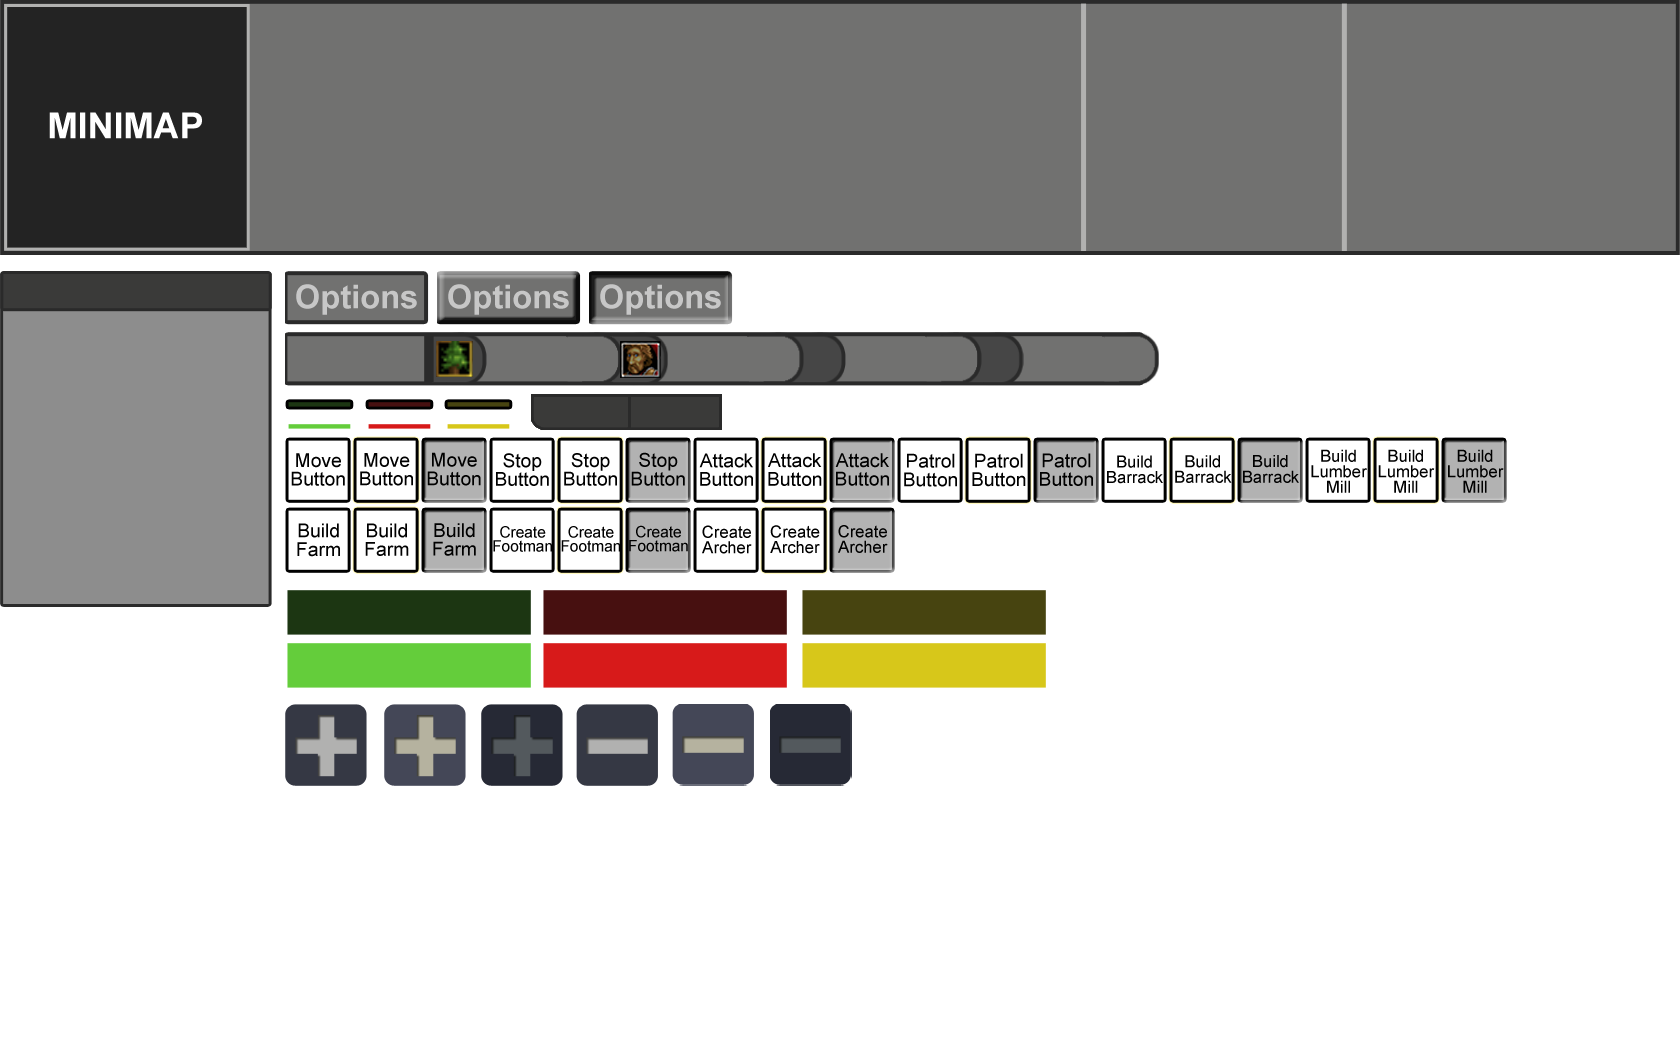
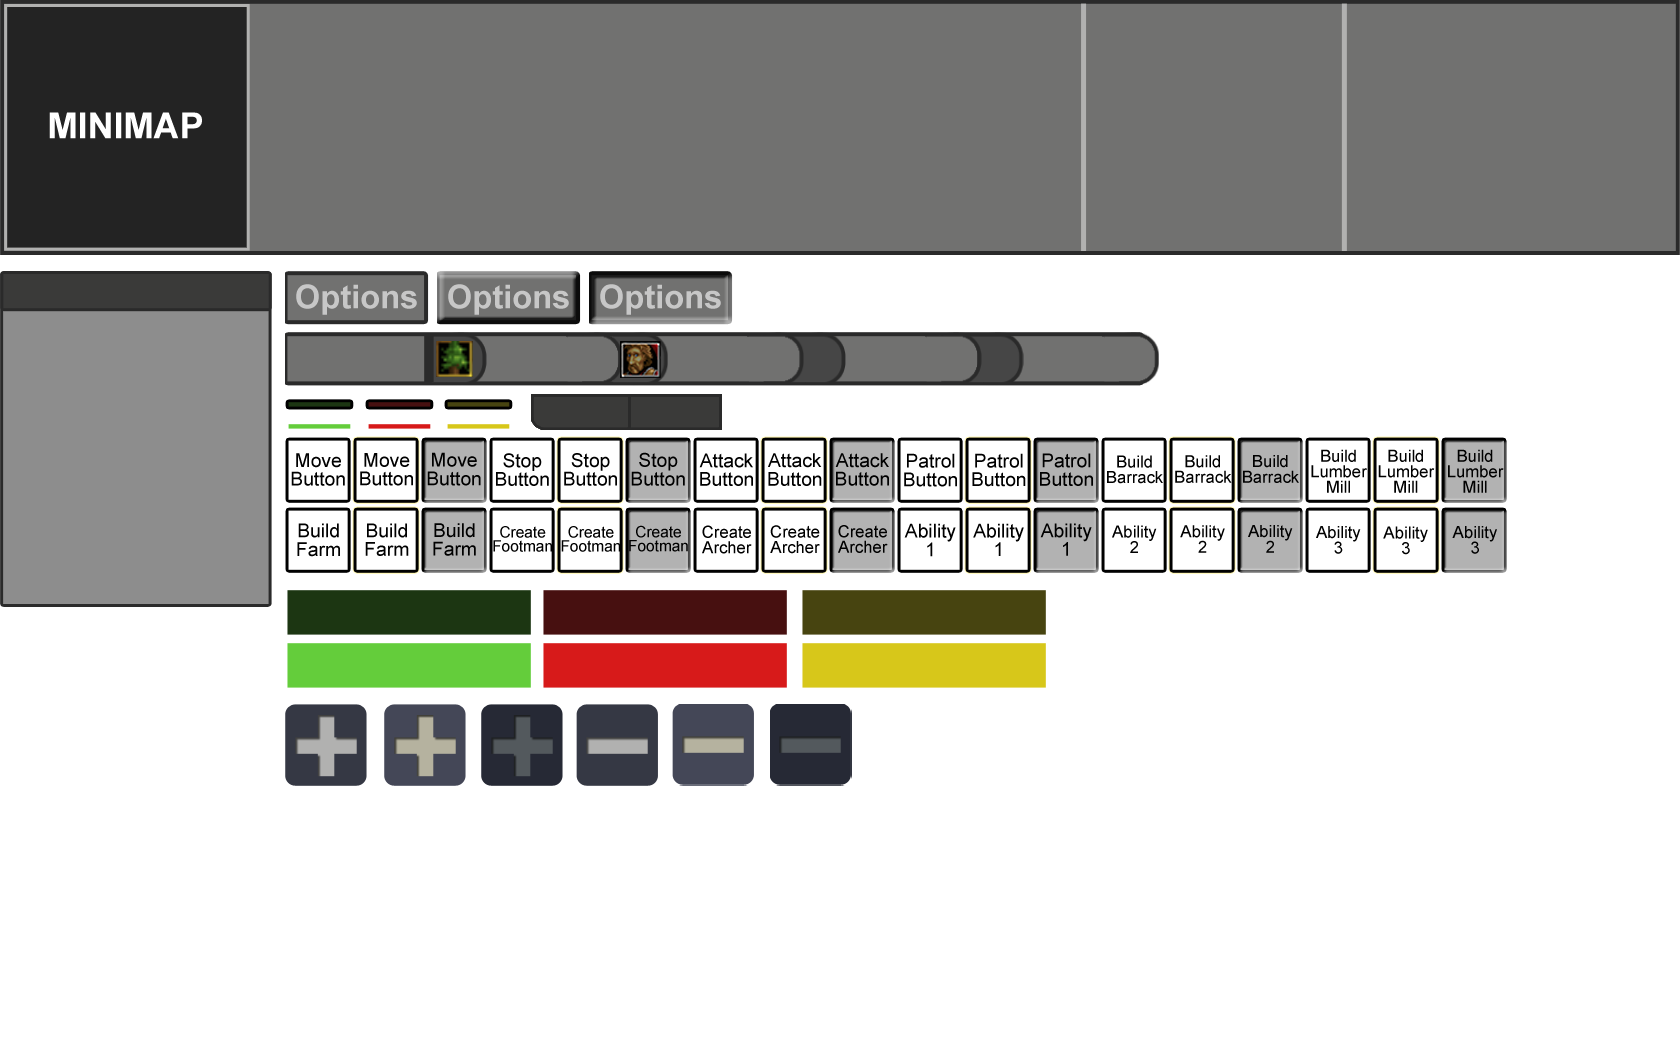
Now hero has action buttons

Changed region(s): [[0.5262, 0.4571, 0.8976, 0.5486]]

diff --git a/Motor2D/j1EntityController.cpp b/Motor2D/j1EntityController.cpp
@@ -863,6 +863,9 @@ void j1EntityController::StartHero(iPoint pos)
 
 	hero->entity_type = UNIT;
 
+	for (int i = 0; i < 9; i++)
+		hero->available_actions[i] = (unitDB[HERO_1])->available_actions[i];
+
 	hero->position.x =  pos.x;
 	hero->position.y =  pos.y;
 
